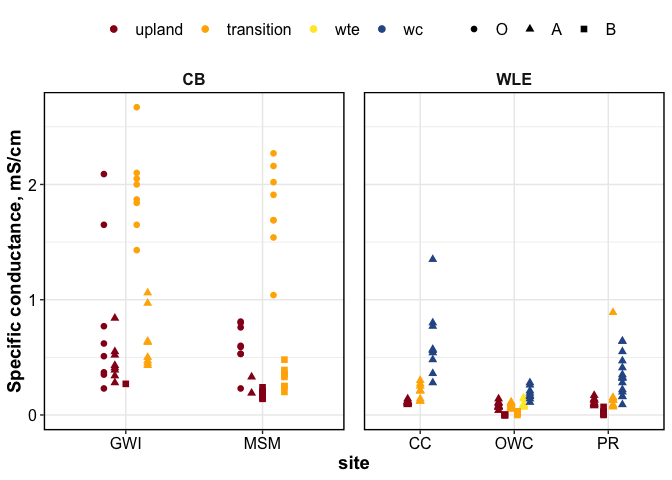
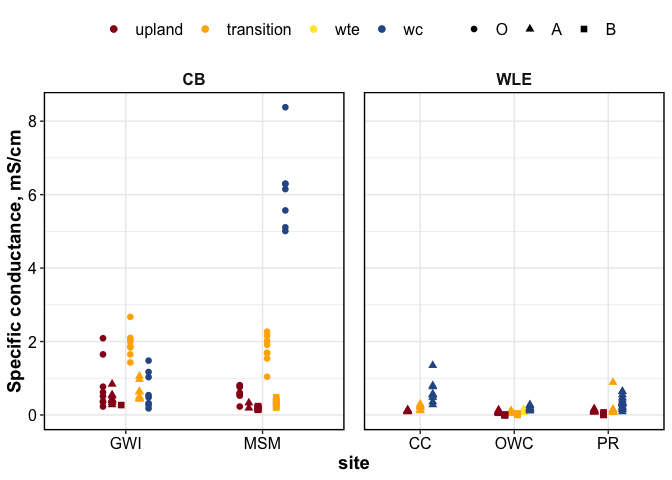
updated pH/sp-cond

diff --git a/3-reports/characterization_report.md b/3-reports/characterization_report.md
@@ -39,7 +39,7 @@ Untitled
 Session Info
 </summary>
 
-Date run: 2022-08-04
+Date run: 2022-08-10
 
     ## R version 4.2.1 (2022-06-23)
     ## Platform: x86_64-apple-darwin17.0 (64-bit)
@@ -64,21 +64,23 @@ Date run: 2022-08-04
     ## [16] targets_0.12.1     
     ## 
     ## loaded via a namespace (and not attached):
-    ##  [1] ps_1.7.1          assertthat_0.2.1  digest_0.6.29     utf8_1.2.2       
-    ##  [5] R6_2.5.1          cellranger_1.1.0  backports_1.4.1   reprex_2.0.1     
-    ##  [9] evaluate_0.15     highr_0.9         httr_1.4.3        pillar_1.8.0     
-    ## [13] rlang_1.0.4       readxl_1.4.0      rstudioapi_0.13   data.table_1.14.2
-    ## [17] callr_3.7.1       rmarkdown_2.14    labeling_0.4.2    googledrive_2.0.0
-    ## [21] igraph_1.3.4      munsell_0.5.0     broom_1.0.0       compiler_4.2.1   
-    ## [25] modelr_0.1.8      xfun_0.31         pkgconfig_2.0.3   htmltools_0.5.3  
-    ## [29] tidyselect_1.1.2  codetools_0.2-18  fansi_1.0.3       crayon_1.5.1     
-    ## [33] tzdb_0.3.0        dbplyr_2.2.1      withr_2.5.0       grid_4.2.1       
-    ## [37] jsonlite_1.8.0    gtable_0.3.0      lifecycle_1.0.1   DBI_1.1.3        
-    ## [41] scales_1.2.0      cli_3.3.0         stringi_1.7.8     farver_2.1.1     
-    ## [45] fs_1.5.2          xml2_1.3.3        ellipsis_0.3.2    generics_0.1.3   
-    ## [49] vctrs_0.4.1       tools_4.2.1       glue_1.6.2        hms_1.1.1        
-    ## [53] fastmap_1.1.0     processx_3.7.0    yaml_2.3.5        colorspace_2.0-3 
-    ## [57] gargle_1.2.0      base64url_1.4     rvest_1.0.2       knitr_1.39       
-    ## [61] haven_2.5.0
+    ##  [1] httr_1.4.3        bit64_4.0.5       vroom_1.5.7       jsonlite_1.8.0   
+    ##  [5] modelr_0.1.8      assertthat_0.2.1  askpass_1.1       highr_0.9        
+    ##  [9] base64url_1.4     cellranger_1.1.0  yaml_2.3.5        pillar_1.8.0     
+    ## [13] backports_1.4.1   glue_1.6.2        digest_0.6.29     rvest_1.0.2      
+    ## [17] colorspace_2.0-3  htmltools_0.5.3   pkgconfig_2.0.3   broom_1.0.0      
+    ## [21] haven_2.5.0       scales_1.2.0      processx_3.7.0    tzdb_0.3.0       
+    ## [25] openssl_2.0.2     googledrive_2.0.0 generics_0.1.3    farver_2.1.1     
+    ## [29] ellipsis_0.3.2    withr_2.5.0       cli_3.3.0         crayon_1.5.1     
+    ## [33] readxl_1.4.0      evaluate_0.15     ps_1.7.1          fs_1.5.2         
+    ## [37] fansi_1.0.3       xml2_1.3.3        tools_4.2.1       data.table_1.14.2
+    ## [41] hms_1.1.1         gargle_1.2.0      lifecycle_1.0.1   munsell_0.5.0    
+    ## [45] reprex_2.0.1      callr_3.7.1       compiler_4.2.1    rlang_1.0.4      
+    ## [49] grid_4.2.1        rstudioapi_0.13   rappdirs_0.3.3    igraph_1.3.4     
+    ## [53] labeling_0.4.2    rmarkdown_2.14    gtable_0.3.0      codetools_0.2-18 
+    ## [57] DBI_1.1.3         curl_4.3.2        R6_2.5.1          knitr_1.39       
+    ## [61] fastmap_1.1.0     bit_4.0.4         utf8_1.2.2        stringi_1.7.8    
+    ## [65] parallel_4.2.1    vctrs_0.4.1       dbplyr_2.2.1      tidyselect_1.1.2 
+    ## [69] xfun_0.31
 
 </details>
